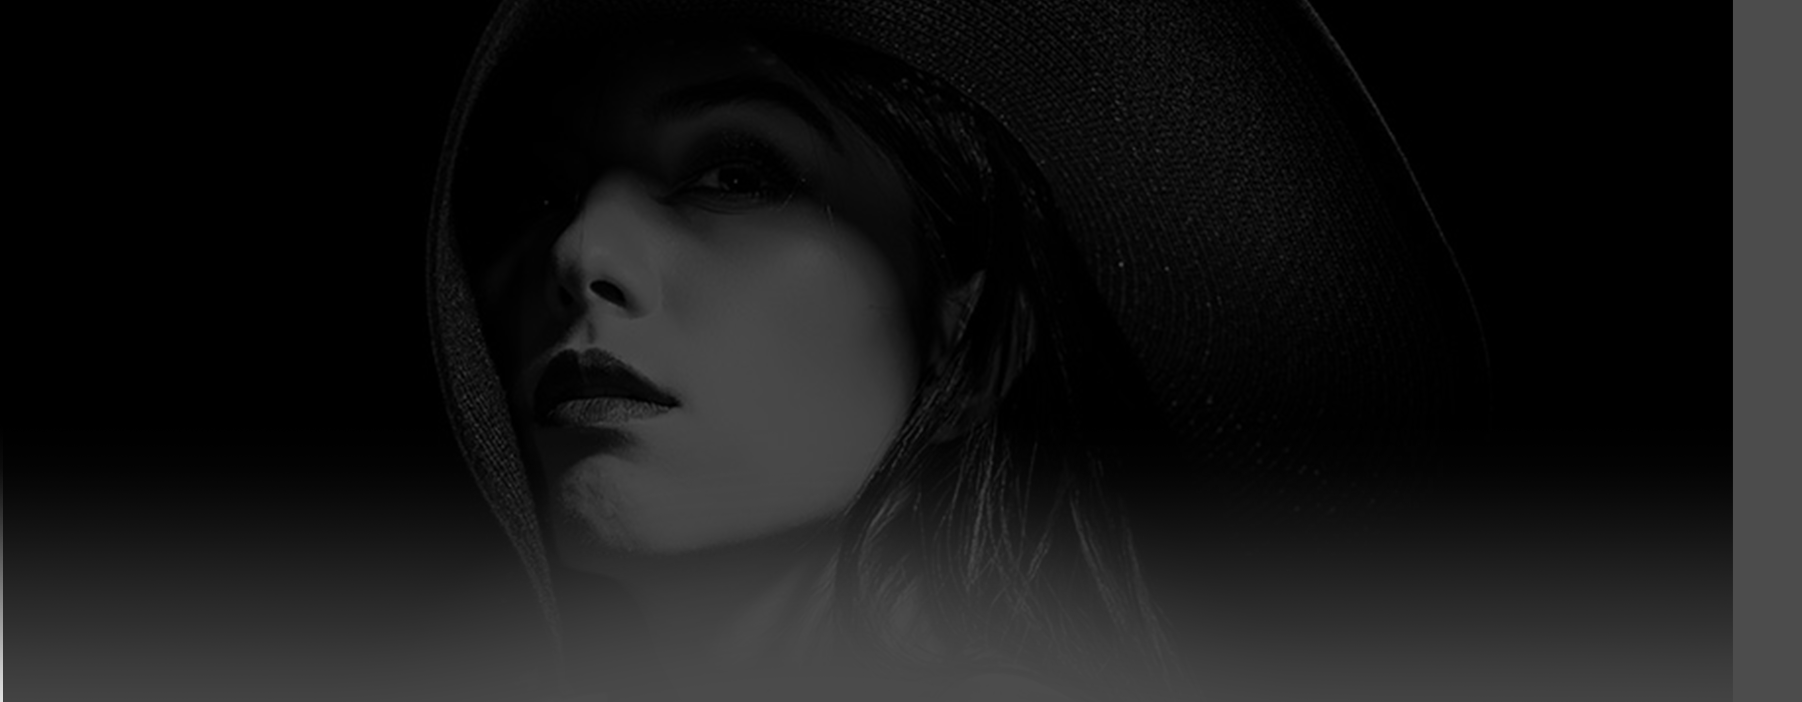
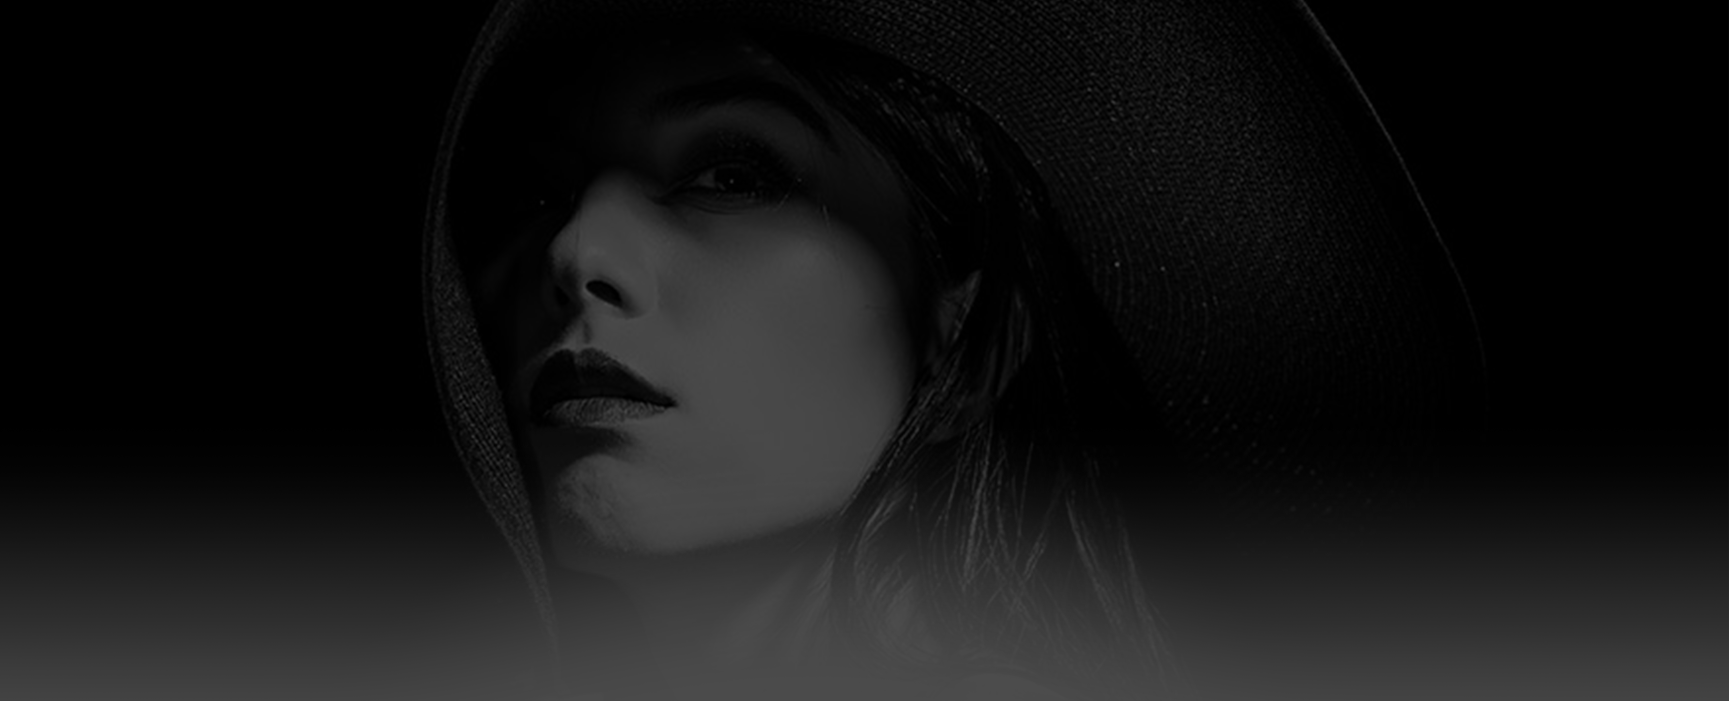
about

diff --git a/city.html b/city.html
@@ -1,0 +1,137 @@
+<!DOCTYPE html>
+<html lang="en">
+<head>
+    <meta charset="UTF-8">
+    <meta name="viewport" content="width=device-width, initial-scale=1.0">
+    <title>首页</title>
+    <link rel="stylesheet" href="css/city.css">
+    <link rel="stylesheet" href="css/reset.css">
+    <link rel="stylesheet" href="css/common.css">
+</head>
+<body>
+    <!-- 公共头部导航结构 -->
+    <div class="head">
+        <a href="#" class="logo"></a>
+        <div class="nav clear">
+            <a href="index.html" class="item">
+                首页
+                <span class="line"></span>
+            </a>
+            <a href="view.html" class="item">
+                样片大赏
+                <span class="line"></span>
+            </a>
+            <a href="discount.html" class="item">
+                当季优惠
+                <span class="line"></span>
+            </a>
+            <a href="city.html" class="item">
+                旅拍城市
+                <span class="line"></span>
+            </a>
+            <a href="about.html" class="item">
+                关于我们
+                <span class="line"></span>
+            </a>
+            <a href="contact.html" class="item lastm">
+                联系我们
+                <span class="line"></span>
+            </a>
+        </div>
+    </div>
+    <!-- banner区域结构 -->
+    <div class="banner">
+    </div>
+    <div class="tour-city">
+        <div class="title">
+            <h3 class="ename"><span>Exhibittion of works</span></h3>
+            <span class="cname">作品展示</span>
+        </div>
+        <ul class="city-list clear">
+            <li class="list-item country">
+                <a href="#" class="in-out">
+                    <span>国内&ge;</span>
+                    <!-- <img src="" alt=""> -->
+                </a>
+                <a href="#" class="in-out">
+                    <span>国外&ge;</span>
+                    <!-- <img src="" alt=""> -->
+                </a>
+            </li>
+            <li class="list-item">
+                <a href="#"><img src="images/city_08.png" alt=""></a>
+                <div class="mask">
+                    <div class="mask-content">
+                        <h3>FRANCE</h3>
+                        <span>法国</span>
+                        <p>一个集浪漫与羞涩一体的国度</p>
+                        
+                    </div>
+                </div>
+            </li>
+            <li class="list-item">
+                <a href="#"><img src="images/city_09.png" alt=""></a>
+                <div class="mask">
+                    <div class="mask-content">
+                        <h3>FRANCE</h3>
+                        <span>法国</span>
+                        <p>一个集浪漫与羞涩一体的国度</p>
+                        
+                    </div>
+                </div>
+            </li>
+            <li class="list-item">
+                <a href="#"><img src="images/city_10.png" alt=""></a>
+                <div class="mask">
+                    <div class="mask-content">
+                        <h3>FRANCE</h3>
+                        <span>法国</span>
+                        <p>一个集浪漫与羞涩一体的国度</p>
+                        
+                    </div>
+                </div>
+            </li>
+            <li class="list-item">
+                <a href="#"><img src="images/city_11.png" alt=""></a>
+                <div class="mask">
+                    <div class="mask-content">
+                        <h3>FRANCE</h3>
+                        <span>法国</span>
+                        <p>一个集浪漫与羞涩一体的国度</p>
+                        
+                    </div>
+                </div>
+            </li>
+        </ul>
+        <!-- 联系我们结构模块 -->
+        <div class="contactUs clear">
+            <div class="icon fl">
+                <p>郑州镜界摄影服务工作室</p>
+                <ul class="icon-list clear">
+                    <li class="icon-item"><a href="#"><img src="images/weibo.png" alt=""></a></li>
+                    <li class="icon-item"><a href="#"><img src="images/qq.png" alt=""></a></li>
+                    <li class="icon-item"><a href="#"><img src="images/weixin.png" alt=""></a></li>
+                    <li class="icon-item"><a href="#"><img src="images/baidu.png" alt=""></a></li>
+                </ul>
+            </div>
+            <div class="addr">
+                <p>地址：郑州市郑东新区绿地中心6号楼 <br>
+                    服务热线：037-7981788 <br>
+                    邮编：456333 <br>
+                </p>
+            </div>
+            <div class="tel fr">
+                <p>手机：18236988754<br>
+                    邮箱：912754544@qq.com<br>
+                    Q Q：912754544<br>
+                </p>
+            </div>
+        </div>
+    </div>
+    <!-- 版权信息结构 -->
+    <p class="copyright">
+        Copyright ©2010 ls1001.com, All rights reserved. 镜界传媒艺术有限公司 豫ICP备11028596号
+    </p>
+</body>
+
+</html>

diff --git a/about.html b/about.html
@@ -1,13 +1,15 @@
 <!DOCTYPE html>
 <html lang="en">
+
 <head>
     <meta charset="UTF-8">
     <meta name="viewport" content="width=device-width, initial-scale=1.0">
     <title>首页</title>
-    <link rel="stylesheet" href="css/discount.css">
+    <link rel="stylesheet" href="css/about.css">
     <link rel="stylesheet" href="css/reset.css">
     <link rel="stylesheet" href="css/common.css">
 </head>
+
 <body>
     <!-- 公共头部导航结构 -->
     <div class="head">
@@ -39,57 +41,30 @@
             </a>
         </div>
     </div>
-    <!-- banner区域结构 -->
-    <div class="banner clear">
+    <!-- 内容区域结构 -->
+    <div class="content">
         <div class="title">
-            <h3 class="ename"><span>SEason Preference</span></h3>
-            <span class="cname">当季优惠</span>
-            <p>我们列出了最常用的四种消费套餐供您选择，如果没有合适您的套餐，可以进一步咨询我们。</p>
+            <h3 class="ename"><span>About  us</span></h3>
+            <span class="cname">关于我们</span>
         </div>
-        <!-- 产品套餐模块结构 -->
-        <div class="packages-box">
-            <ul class="packages  mr">
-                <li class="packages-item mb">
-                     <img src="images/discount-pic_05.png" alt="">
-                     <a href="#" class="item-name">国庆特惠</a>
-                     <div class="price">
-                         <h3>￥7288</h3>
-                         <p class="edesc">Record a trvel that says go and go</p>
-                         <p class="people">已有<span>243</span>人预定</p>
-                     </div>
-                </li>
-                <li class="packages-item">
-                     <img src="images/discount-pic_06.png" alt="">
-                     <a href="#" class="item-name">闺蜜套餐</a>
-                     <div class="price">
-                         <h3>￥6250</h3>
-                         <p class="edesc">Good friends are like stars.</p>
-                         <p class="people">已有<span>35</span>人预定</p>
-                     </div>
-                </li>
-                
-            </ul>
-            <ul class="packages">
-                <li class="packages-item mb"> 
-                     <div class="price">
-                        <h3>￥5520</h3>
-                        <p class="edesc">Sharp PhotoGraphy</p>
-                        <p class="people">已有<span>243</span>人预定</p>
-                    </div>
-                     <a href="#" class="item-name">国庆特惠</a>
-                     <img src="images/discount-pic_10.png" alt=""> 
-                </li>
-                <li class="packages-item"> 
-                     <div class="price">
-                        <h3>￥5520</h3>
-                        <p class="edesc">Sharp PhotoGraphy</p>
-                        <p class="people">已有<span>257</span>人预定</p>
-                    </div>
-                     <a href="#" class="item-name">个人福利</a>
-                     <img src="images/discount-pic_11.png" alt=""> 
-                </li>
-                
-            </ul>
+        <p class="desc">镜 界 摄 影 2014 年 成 立 于 郑 州，是 郑 州 知 名 一 线 品 牌 旅 拍 摄 影 工 作。作 品 多 次 被 今 日 人 像 和人 像 摄 影  等 知 名 行 内 杂 志 推 荐，荣 誉 郑 州，多 年 来 致 力 于 坚 持 原 创 与 不 断 地 创 新，坚 信 实 力 铸 就 品 质，口 碑 坚 固 品 牌，我 们 的 拍 摄 方 式 更 像 是 一 天 旅 行，风 景 与 光 影，只 是 为 了 见 证 情 感，时 尚 会 消 逝，影 像 会 长 存，我 们 让 每 一 张 照 片 充 满 幸 福 的 温 度。</p>
+        <div class="date">
+            <div class="year fl">
+                <h3>4</h3>
+                <span>年/year</span>
+            </div>
+            <div class="hour fl">
+                <h3>13000
+                    <span>小时</span>
+                </h3>
+                <span>拍摄时间/time</span>
+            </div>
+            <div class="picture fl">
+                <h3>1008
+                    <span>套</span>
+                </h3>
+                <span>照片/picture</span>
+            </div>
         </div>
     </div>
 
@@ -116,6 +91,7 @@
                 Q Q：912754544<br>
             </p>
         </div>
+    </div>
     </div>
     <!-- 版权信息结构 -->
     <p class="copyright">

diff --git a/css/city.css b/css/city.css
@@ -1,0 +1,87 @@
+.banner{
+    height: 478px;
+    background: #000 url(../images/tourcity-banner.png) no-repeat center;
+    background-size: cover;
+}
+.tour-city{
+    padding-top: 85px;
+    background-color: #000;
+}
+.tour-city .title{
+    padding-bottom: 36px;
+}
+.city-list{
+    width: fit-content;
+    width: -moz-fit-content;
+    width: -webkit-fit-content;
+    margin: 0 auto;
+}
+.list-item{
+    width: 258px;
+    height: 500px;
+    /* background-color: #fcf; */
+    float: left;
+    position: relative;
+}
+.country{
+    width: 169px;
+}
+.list-item a{
+    width: 100%;
+    height: 100%;
+}
+.list-item.city{
+    width: 169px;
+}
+.country .in-out{
+    display: block;
+    width: 100%;
+    height: 250px;
+    font-size: 18px;
+    color: #8c8c8c;
+    line-height: 250px;
+    text-align: center;
+} 
+.country .in-out:hover{
+    background-color: rgba(221,23,0,.5);
+    color: #fff;
+}
+.city-list .list-item:hover .mask{
+    display: block;
+}
+.list-item .mask{
+    height: 100%;
+    width: 100%;
+    background-color: rgba(0,0,0,.6);
+    top: 0px;
+    left: 0px;
+    position: absolute;
+    display: none;
+    padding-top: 18%;
+}
+.list-item  .mask-content{
+    margin: 0 auto;
+    width: 80%;
+    height: 80%;
+    border: 1px solid#dd1717;
+    text-align: center;
+}
+.list-item  .mask-content h3{
+    margin-top: 70%;
+    font-size:20px;
+    line-height: 20px;
+    color: #fff;
+}
+.list-item  .mask-content span{
+    display: block;
+    font-size: 14px;
+    line-height: 14px;
+    color: #fff;
+    padding-top: 5px;
+    padding-bottom: 20px;
+}
+.list-item  .mask-content p{
+    font-size: 12px;
+    line-height: 12px;
+    color: #fff;
+}

diff --git a/css/about.css b/css/about.css
@@ -1,0 +1,61 @@
+.content{
+    height: 1000px;
+    background:#000 url(../images/about-bg.png) no-repeat center;
+}
+.content .title
+{
+    padding-top: 208px;
+}
+.content .ename>span{
+    padding: 0 50px;
+}
+.content .desc{
+    width: 781px;
+    font-size: 14px;
+    color: rgba(255,255,255,.6);
+    line-height: 30px;
+    margin: 0 auto;
+    margin-top: 75px;
+}
+.content .date{
+    width: 800px;
+    height: 91px;
+    /* background-color: #fcf; */
+    margin: 0 auto;
+    margin-top:79px;
+}
+.date .year{
+    width: 207px;
+    height: 91px;
+    border-right: 1px solid rgba(255,255,255,.6);
+}
+.date h3{
+    color: rgba(255,255,255,.6);
+    font-size: 60px;
+    line-height: 60px;
+    position: relative;
+}
+.date span{
+    font-size: 14px;
+    line-height: 14px;
+    color: rgba(255,255,255,.4);
+}
+.date h3 span{
+    width: 32px;
+    font-size: 14px;
+    font-size: 14px;
+    font-weight: normal;
+    position: absolute;
+}
+.content .year span{
+    margin-top: 28px;
+}
+.content .hour{
+    margin-left: 72px;
+    text-align: center;
+}
+.content .picture{
+    margin-left: 130px;
+    border-left: 1px solid  rgba(255,255,255,.6);
+    padding-left: 44px;
+}
